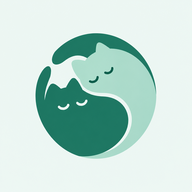
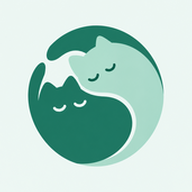
Add files via upload

Changed region(s): [[0.125, 0.125, 0.875, 0.875], [0.2812, 0.4688, 0.4688, 0.5938]]

diff --git a/sw.js b/sw.js
@@ -1,1 +1,1 @@
-const CACHE='hanzi-v6.0';const FILES=['./','./index.html','./manifest.webmanifest','./icon-192.png','./icon-512.png'];self.addEventListener('install',e=>e.waitUntil(caches.open(CACHE).then(c=>c.addAll(FILES)).then(()=>self.skipWaiting())));self.addEventListener('activate',e=>e.waitUntil(caches.keys().then(keys=>Promise.all(keys.filter(k=>k.startsWith('hanzi-')&&k!==CACHE).map(k=>caches.delete(k)))).then(()=>self.clients.claim())));self.addEventListener('fetch',e=>{if(e.request.method!=='GET'||new URL(e.request.url).origin!==self.location.origin)return;e.respondWith(fetch(e.request).then(r=>{if(r.ok){const copy=r.clone();e.waitUntil(caches.open(CACHE).then(c=>c.put(e.request,copy)))}return r}).catch(async()=>await caches.match(e.request)||(e.request.mode==='navigate'?await caches.match('./index.html'):Response.error()))) });
+const CACHE='hanzi-v6.0-icon-update';const FILES=['./','./index.html','./manifest.webmanifest','./icon-192.png','./icon-512.png'];self.addEventListener('install',e=>e.waitUntil(caches.open(CACHE).then(c=>c.addAll(FILES)).then(()=>self.skipWaiting())));self.addEventListener('activate',e=>e.waitUntil(caches.keys().then(keys=>Promise.all(keys.filter(k=>k.startsWith('hanzi-')&&k!==CACHE).map(k=>caches.delete(k)))).then(()=>self.clients.claim())));self.addEventListener('fetch',e=>{if(e.request.method!=='GET'||new URL(e.request.url).origin!==self.location.origin)return;e.respondWith(fetch(e.request).then(r=>{if(r.ok){const copy=r.clone();e.waitUntil(caches.open(CACHE).then(c=>c.put(e.request,copy)))}return r}).catch(async()=>await caches.match(e.request)||(e.request.mode==='navigate'?await caches.match('./index.html'):Response.error()))) });
